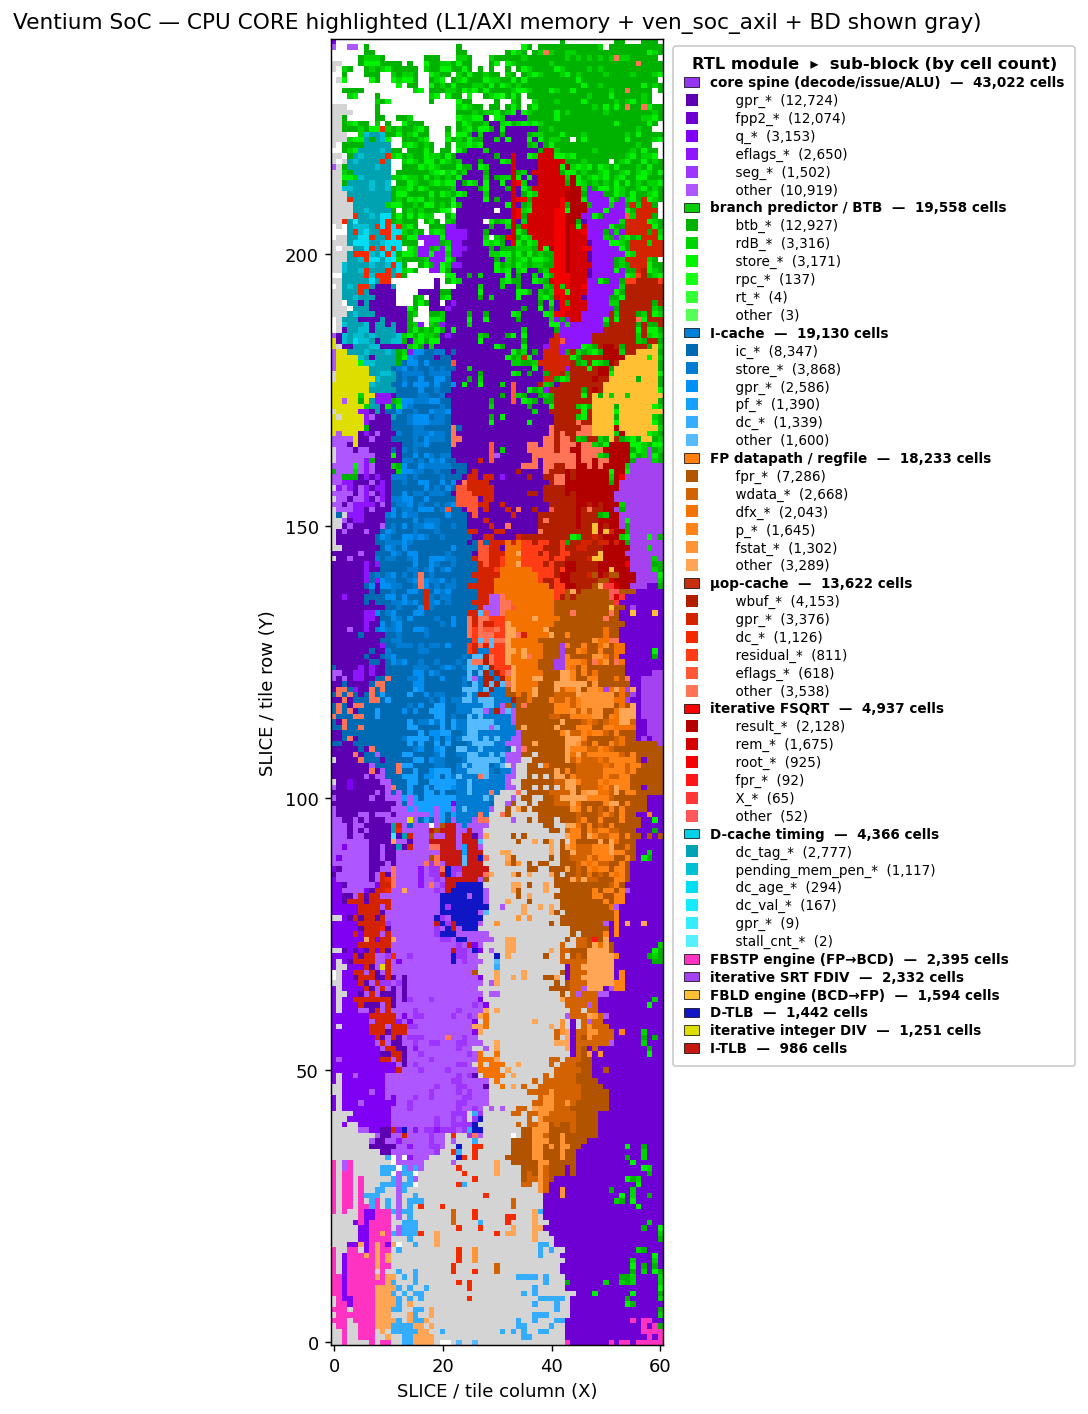
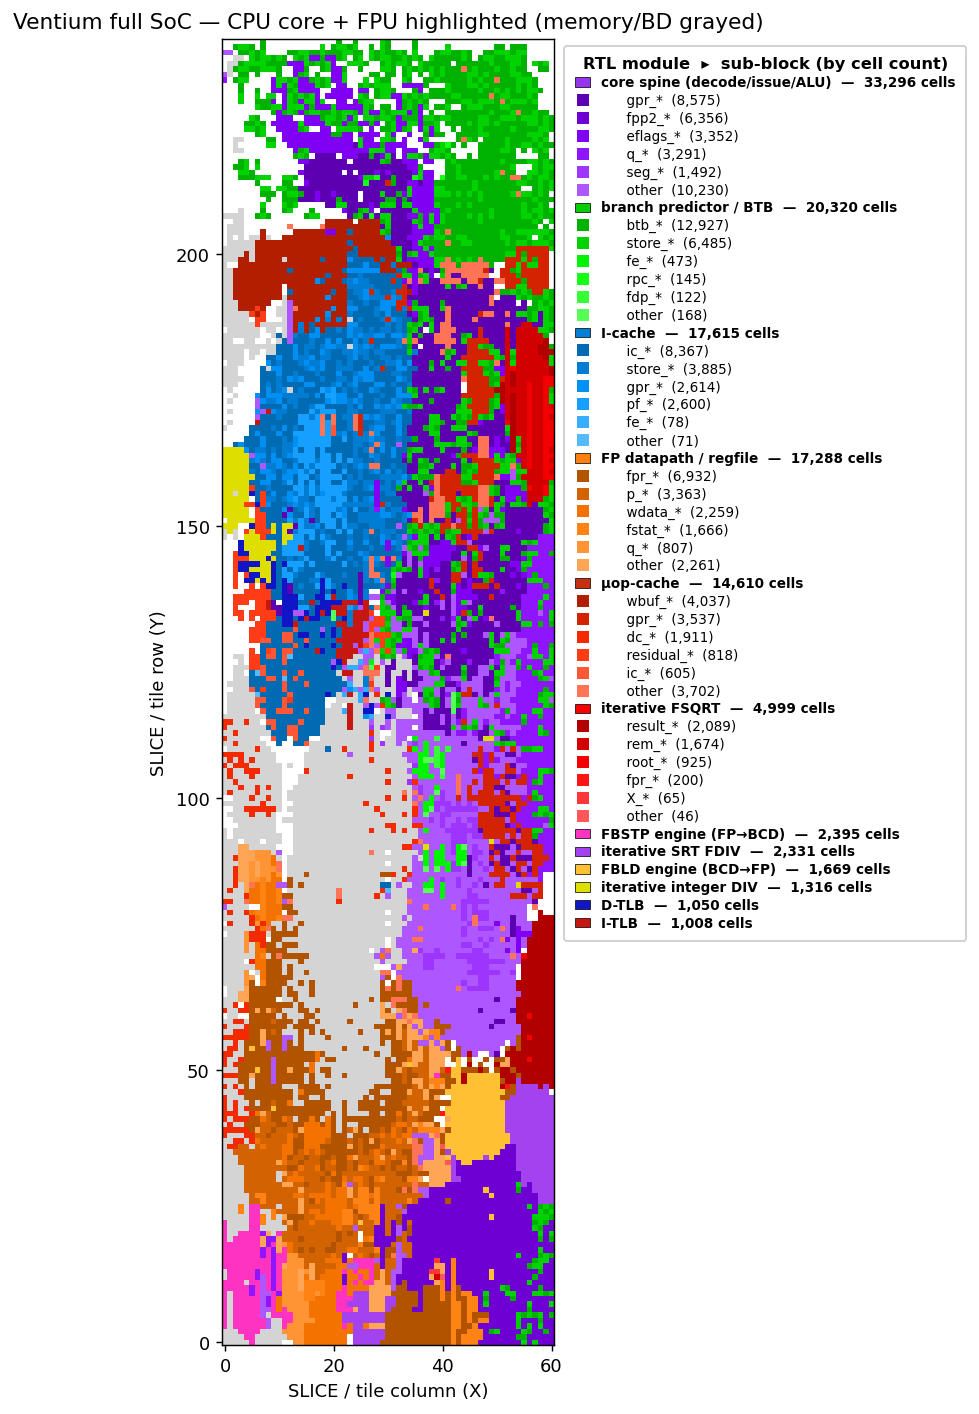
docs: full-SoC +VEN_FE_PIPE device views + congestion maps + writeup (~50 MHz routed)
Regenerate all full-SoC device views and congestion maps from the routed
+VEN_FE_PIPE checkpoint (the build that breaks the eip/TLB cone and routes
legally at WNS -3.195 ns -> ~50.4 MHz, vs the dcache-only build which fails
to route at all -- 8766 node overlaps).

- soc_views.tcl: one-shot extractor (opens the routed dcp once -> cells CSV +
  router congestion report). Fix soc_axil/axi_master attribution -- the real
  instances are u_axil / u_axi, so the old soc_axil/axi_master keywords missed
  them and folded both into core_spine; now the outside-core view shows the PS
  bridge + AXI master correctly. Same fix in dump_cells_loc_soc.tcl.
- docs/fpga-synthesis.md: new "Full SoC, in-context" section -- the dcache-timing
  removal prereq, the eip-cone wall, the page-keyed micro-TLB cut, the on/off
  route table, new worst path (uopcache fill->eip, route-bound), and all 5 views.
- README: full-SoC routed result paragraph + the SoC device view.

Default build untouched; all FPGA-only options remain +define-gated.

diff --git a/docs/fpga-synthesis.md b/docs/fpga-synthesis.md
@@ -221,3 +221,77 @@ replication both place it worse) — the diffuse front-end congestion that P0-12
 floorplan) targets, not a single combinational cone. Reproduce: `STAGE=pnr FP_PIPE2=1
 STRAT=fp2b_netdelay PLACE_DIR=ExtraNetDelay_high ROUTE_DIR=Explore`; `make verify-bcd`.
 
+> The ÷100 step is now **opt-in (`+VEN_BCD_DIV100`)**: it only helps when `u_bcd` is the worst
+> path (this OOC half-cache config), and in the full SoC below the front-end cluster binds long
+> before `u_bcd` does — so the default leaves it off (back to two chained ÷10), keeping `u_bcd`
+> smaller where it isn't critical. Both forms are bit-exact (`make verify-bcd` either way).
+
+## Full SoC, in-context: the front-end pipeline (`+VEN_FE_PIPE`) → ~50 MHz
+
+Everything above is **out-of-context** (the `core` alone, virtual I/O). The deployable image is
+the **full KV260 block design**: the core + FPU wrapped with the **L1/AXI memory subsystem**
+(`ventium_l1_axi`: `ven_l1d` → `ven_axi_master` → AXI4 to PS-DDR), the **`ven_soc_axil`** PS↔PL
+control / port-I/O bridge, and the SmartConnect interconnect — all placed *in context* against the
+PS8 hard block and routed to a **bitstream + `.xsa`** at a 60 MHz `pl_clk0` target
+(`fpga/scripts/impl_kv260_soc.tcl`). The in-context routing demand is much higher than OOC, and a
+new module (the front-end translate path) binds.
+
+**The dcache-timing removal (prerequisite).** Under `VEN_L1_AXI` the old `dcache_timing` block
+(~4.4 k cells) only fed the cycle-mode D-miss penalty, which `real_bus` suppresses — it never
+touches data. Gating it out (`ifndef VEN_L1_AXI`) is inert (default build identical) and drops the
+post-place LUT congestion **79 % → 76 %**. Necessary, not sufficient: it does not, by itself,
+route.
+
+**The wall, and the cut.** With dcache-timing gone the full SoC still would **not legally route**
+at 60 MHz — Vivado abandons routing with *"Design is not legally routed. There are 8766 node
+overlaps."* The binder is the `eip` fetch cone: every fetch re-runs the 16-entry I-TLB
+carry-chain compare (`itlb hit_of → xlate_miss → eip`) combinationally, and in context that cone's
+fanout congests the front-end region past what the router can resolve. **`+VEN_FE_PIPE`** breaks
+it with a **page-keyed micro-TLB**: a 1-entry register (`fe_itlb_q`/`fe_dtlb_q`) keyed on
+`cur_lin[31:12]` holds the resolved translation for the current 4 KiB page, so steady-state fetch
+reads a registered phys page instead of re-walking the TLB compare. A page crossing asserts
+`fe_xlate_pend` for exactly **one clock** while the register re-samples (the only added latency;
+zero within a page, zero in real mode). It is `ifdef`-gated — default build byte/cycle-identical,
+`make verify` GREEN — and an **Fmax-only demonstrator** (cycle bands not claimed with it on, since
+the page-crossing stall perturbs cycle counts by < ~1 %; architecturally bit-exact throughout).
+
+The same SoC, same 60 MHz target, the cut on vs off:
+
+| Full-SoC impl (in-context, KV260, `pl_clk0` 60 MHz) | dcache-removal only | **`+VEN_FE_PIPE`** |
+|---|---|---|
+| Route result | **FAILED** — 8766 node overlaps (illegal) | **Router Completed Successfully** |
+| WNS @ 60 MHz | — (never closed) | **−3.195 ns** |
+| **Routed Fmax** | — (~41 MHz wall, no legal route) | **~50.4 MHz** |
+| CLB LUTs | — | 83,117 (71.0 %) |
+| CLB Registers / BRAM / DSP | — | 31,178 (13.3 %) / 40 / 31 |
+| Bitstream + `.xsa` | not produced | **produced** (deployable) |
+
+So `+VEN_FE_PIPE` takes the full SoC from *no legal route at all* to a clean **~50 MHz** image —
+the `eip`/TLB translate cone leaves the critical path exactly as designed. The **new** worst path
+is `u_uopcache/store_bmap → eip_reg[26]` (19.81 ns, **62 % routing** / 38 % logic, 47 levels) — the
+*same* µop-cache fill→front-end cluster the OOC 65.3 MHz build hit. The remaining wall is therefore
+**route-bound, not logic-bound**: the cure is in-context placement/floorplanning of the fill→`eip`
+cluster (P0-12), not more RTL pipelining.
+
+Every leaf cell of the routed full SoC, colored by RTL module (core blocks + the L1/AXI + PS-bridge
++ BD interconnect that OOC views omit):
+
+![Ventium full SoC on the KV260, +VEN_FE_PIPE routed ~50 MHz, colored by module](fpga-device-view-soc.png)
+
+The two halves separated — the CPU core + FPU (memory/BD grayed), and the memory/PS/BD outside it
+(core grayed):
+
+![Full SoC — CPU core + FPU highlighted](fpga-device-view-soc-core.png)
+![Full SoC — L1/AXI memory + PS bridge + BD highlighted](fpga-device-view-soc-outside.png)
+
+Placement density and router-congestion concentration of the routed image — the bright band is the
+µop-cache fill→`eip` front-end cluster that now binds:
+
+![Full SoC — placement density](fpga-congestion-soc.png)
+![Full SoC — router congestion concentration](fpga-congestion-router-soc.png)
+
+Reproduce: `FE_PIPE=1 OUTTAG=_fe /tools/Xilinx/2025.2/Vivado/bin/vivado -mode batch -source
+fpga/scripts/impl_kv260_soc.tcl` (bitstream + `.xsa`); device views + congestion from the routed
+checkpoint via `DCP=<...>_routed.dcp OUT=<...> vivado -mode batch -source fpga/scripts/soc_views.tcl`
+then the `render_device_view.py` / `render_congestion*.py` scripts.
+

diff --git a/README.md b/README.md
@@ -162,8 +162,20 @@ byte/cycle-identical (`make verify-fppipe2`). (3) The **FBSTP BCD engine** (`u_b
 now the µop-cache fill→front-end cluster (route-bound — the diffuse-congestion case the
 docs flag for in-context floorplanning).
 
-📄 **Full results, device views, congestion maps, the ZU15EG + half-cache + FP_PIPE2
-experiments, and methodology:** [`docs/fpga-synthesis.md`](docs/fpga-synthesis.md) ·
+**Full SoC, in-context → deployable bitstream.** The numbers above are out-of-context (the
+`core` alone). The actual KV260 image wraps the core + FPU with the L1/AXI memory subsystem
+(→ PS-DDR), the `ven_soc_axil` PS bridge, and the BD interconnect, placed against the PS8 and
+routed to a **bitstream + `.xsa`**. In context the **`eip`/TLB fetch cone** binds: the SoC will
+**not legally route** at 60 MHz (8766 node overlaps) until **`+VEN_FE_PIPE`** — a page-keyed
+micro-TLB that registers the current page's translation so steady-state fetch stops re-walking the
+TLB compare (1-cycle stall only on a page crossing; `ifdef`-gated, default build cycle-identical).
+With it, the full SoC routes clean at **WNS −3.195 ns → ~50.4 MHz** (the translate cone leaves the
+critical path; the new worst path is the same µop-cache fill→`eip` cluster, route-bound).
+
+![Ventium full SoC placed on the KV260, colored by RTL module](docs/fpga-device-view-soc.png)
+
+📄 **Full results, device views, congestion maps, the full-SoC `+VEN_FE_PIPE` image, the ZU15EG +
+half-cache + FP_PIPE2 experiments, and methodology:** [`docs/fpga-synthesis.md`](docs/fpga-synthesis.md) ·
 [`fpga/TIMING_PROBLEMS.md`](fpga/TIMING_PROBLEMS.md).
 
 ## Status
